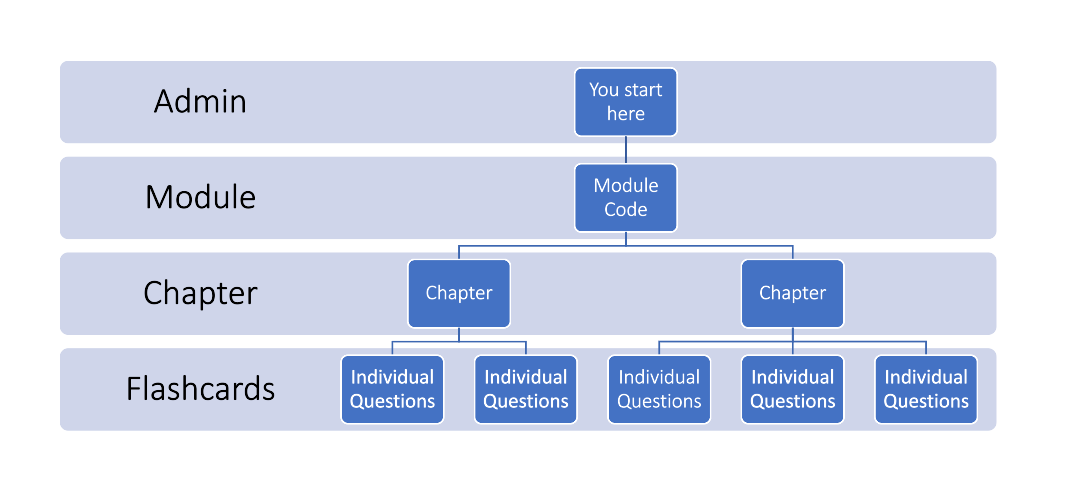
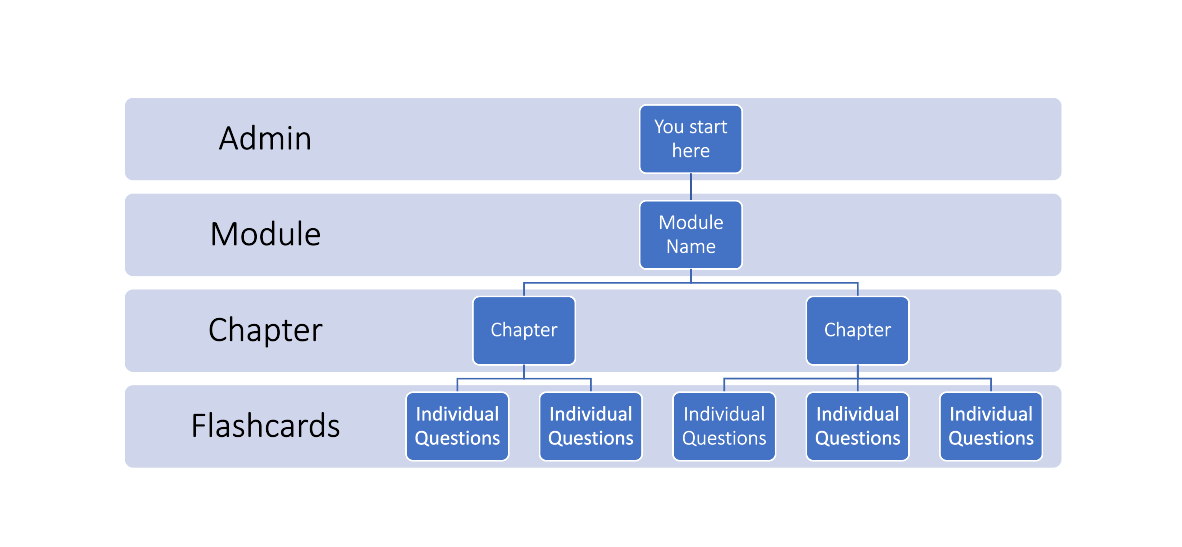
Update to final version of User Guide

Changed region(s): [[0.0308, 0.1205, 0.9543, 0.8735]]

diff --git a/docs/UserGuide.md b/docs/UserGuide.md
@@ -33,11 +33,11 @@ By: `Team CS2113T-F11-3` Since: `August 2020`
 &nbsp;&nbsp;&nbsp;&nbsp;&nbsp;&nbsp;&nbsp;3.3.4. [Removing a flashcard: `remove`](#334-removing-a-flashcard-remove)<br>
 &nbsp;&nbsp;&nbsp;&nbsp;&nbsp;&nbsp;&nbsp;3.3.5. [Returning to module level: `back`](#335-returning-to-module-level-back)<br>
 &nbsp;&nbsp;&nbsp;&nbsp;&nbsp;&nbsp;&nbsp;3.3.6. [Checking overall performance for a chapter: `showrate`](#336-checking-overall-performance-for-a-chapter-showrate)<br>
-3.4. [Scheduling In KAJI](#34-scheduling-in-kaji)<br>
+3.4. [Scheduling in KAJI](#34-scheduling-in-kaji)<br>
 &nbsp;&nbsp;&nbsp;&nbsp;&nbsp;&nbsp;&nbsp;3.4.1. [Listing the chapters due for today: `due`](#341-listing-the-chapters-due-for-today-due)<br>
 &nbsp;&nbsp;&nbsp;&nbsp;&nbsp;&nbsp;&nbsp;3.4.2. [Listing the chapters that are due in the upcoming week: `preview`](#342-listing-the-chapters-that-are-due-in-the-upcoming-week-preview)<br>
-&nbsp;&nbsp;&nbsp;&nbsp;&nbsp;&nbsp;&nbsp;3.4.3. [Adding chapters to your list of Excluded Modules: `exclude`](#343-adding-chapters-to-your-list-of-excluded-modules-exclude)<br>
-&nbsp;&nbsp;&nbsp;&nbsp;&nbsp;&nbsp;&nbsp;3.4.4. [Removing chapters from the list of Excluded Modules: `include`](#344-removing-chapters-from-the-list-of-excluded-modules-include)<br>
+&nbsp;&nbsp;&nbsp;&nbsp;&nbsp;&nbsp;&nbsp;3.4.3. [Adding chapters to your list of excluded modules: `exclude`](#343-adding-chapters-to-your-list-of-excluded-modules-exclude)<br>
+&nbsp;&nbsp;&nbsp;&nbsp;&nbsp;&nbsp;&nbsp;3.4.4. [Removing chapters from the list of excluded modules: `include`](#344-removing-chapters-from-the-list-of-excluded-modules-include)<br>
 3.5. [General](#35-general)<br>
 &nbsp;&nbsp;&nbsp;&nbsp;&nbsp;&nbsp;&nbsp;3.5.1. [Showing a list of commands available: `help`](#351-showing-a-list-of-commands-available-help)<br>
 &nbsp;&nbsp;&nbsp;&nbsp;&nbsp;&nbsp;&nbsp;3.5.2. [Viewing the revision history: `history`](#352-viewing-the-revision-history-history)<br>
@@ -46,7 +46,7 @@ By: `Team CS2113T-F11-3` Since: `August 2020`
 4.1. [Admin Level](#41-admin-level)<br>
 4.2. [Module Level](#42-module-level)<br>
 4.3. [Chapter Level](#43-chapter-level)<br>
-4.4. [Scheduling In Kaji](#44-scheduling-in-kaji)<br>
+4.4. [Scheduling in Kaji](#44-scheduling-in-kaji)<br>
 4.5. [General](#45-general)<br>
 
 
@@ -91,11 +91,11 @@ To use KAJI, you have to first know the Command Line Interface, the platform tha
 
 #### 1.4.1. Content Management
 KAJI's content management system is similar to a physical folder which you may use to organize your lecture handouts. <br>
-KAJI manages content in four different levels, they are the Admin Level, the Module Level, the Chapter Level and the Flash Card Level: <br>
+KAJI manages content in four different levels, they are the Admin Level, the Module Level, the Chapter Level and the Flashcard Level:
 
 <p align="center">
-  <img src="UG_Images/contentManagement.png" alt="Content Management"/>
-  <br/>Figure <2>. Content management diagram
+  <img src="UG_Images/contentManagement.png" width="600" alt="Content Management"/>
+  <br/>Figure 2. Content Management Diagram
 </p>
 
 * **Admin Level** is like your **bookshelf** to keep all the separated module folder in place.
@@ -160,8 +160,8 @@ Ensure that you are at the **Admin Level** before trying the commands in the nex
 
 Welcome to the first feature of KAJI! In order to use this program, you first will need to create a module deck. Creating a new module deck in KAJI is like getting a new folder to store all the handouts for one module. This is important because it helps you to organize your messy notes. <br>
 
-##### Format: `add MODULE_CODE`
-MODULE_CODE is the name of the new module that you would like to create, such as `CS2113`, `Module 1` or `Biology`. 
+##### Format: `add MODULE_NAME`
+MODULE_NAME is the name of the new module that you would like to create, such as `CS2113`, `Module 1` or `Biology`. 
 
 Here are some key pointers:
 * KAJI does not allow duplicate of module names, therefore, if the existing module has the same name as the new module, you will get an error message.
@@ -302,9 +302,8 @@ For instance, you are currently at the admin level and want to remove the module
 #### 3.1.5. Accessing the module level: `go`
 (by Jiayi)
 
-Now you have learnt how to create, edit and delete the module deck, let's move to the next page. You can now access the module deck you have created by using the command `go \MODULE_CODE`.
+Now you have learnt how to create, edit and delete the module deck, let's move to the next page. You can now access the module deck you have created by using the command `go MODULE_INDEX`.
 ##### Format: `go MODULE_INDEX`
-MODULE_INDEX is the index of the module that you can find in the list command, such as `1`, `2` or `3`. 
 
 ##### Key Pointers:
 * Kaji only allow access to the existing modules that are shown in the list, therefore, module that is deleted or has never been created will result in an error message.
@@ -765,7 +764,7 @@ Below are steps of using this `showrate` command: <br>
   <img src="UG_Images/showrate2.png" alt="Show rate 2"/>
 </p>
 
-### 3.4 Scheduling In KAJI
+### 3.4 Scheduling in KAJI
 (by Yan An)
 
 Now that you know how to make KAJI manage your Database of revision content for you, **what about scheduling?** For your benefit, the **scheduling** in KAJI is mostly **automated**! 
@@ -842,7 +841,7 @@ At any point, if you **want to see a preview of which Chapters are going to be d
 
 <br><br>
 
-### 3.4.3. Adding chapters to your list of Excluded Modules: `exclude`
+### 3.4.3. Adding chapters to your list of excluded modules: `exclude`
 (by Yan An)
 
 Apart from viewing your schedule, what if the Semester has ended and you would like to take a Module or Chapter out of your schedule? If you were to remove the files from your database completely, it would be really tedious to add the content back Card by Card. Therefore, we created the `exclude` command.
@@ -911,7 +910,7 @@ Example of ***`exclude chapter`***
 
 
 
-### 3.4.4. Removing chapters from the list of Excluded Modules: `include`
+### 3.4.4. Removing chapters from the list of excluded modules: `include`
 (by Yan An)
 
 However, what should be done if you had excluded the Chapters of a Module from your schedule, only to find that it is a prerequisite for another module the next semester. To prepare for the upcoming semester, you would like to revise the excluded content again. This is why we created the `include` command.
